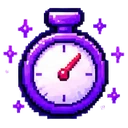
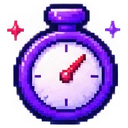
Prestiż: ikonki 8-bit z nowego arkusza + 8 nowych tytułów (Władca Fiszek, Łowca Skarbów, Jasnowidz…)
Claude-Session: https://claude.ai/code/session_01XXanGnhjjnzsxd4etEsKKt

diff --git a/cosmetics.js b/cosmetics.js
@@ -71,6 +71,10 @@ COS.push(
   { id: 't_alchemik', t: 'title', n: 'Alchemik', r: 'rare' }, { id: 't_ratownik', t: 'title', n: 'Ratownik', r: 'rare' },
   { id: 't_snajper', t: 'title', n: 'Snajper', r: 'epic' }, { id: 't_magister', t: 'title', n: 'Magister', r: 'epic' },
   { id: 't_smok', t: 'title', n: 'Pogromca Smoków', r: 'legendary' }, { id: 't_diament', t: 'title', n: 'Diamentowy umysł', r: 'legendary' },
+  { id: 't_zar', t: 'title', n: 'Żar nauki', r: 'common' }, { id: 't_sto', t: 'title', n: 'Stuprocentowy', r: 'rare' },
+  { id: 't_czas', t: 'title', n: 'Strażnik Czasu', r: 'rare' }, { id: 't_wrozbita', t: 'title', n: 'Jasnowidz', r: 'epic' },
+  { id: 't_weteran', t: 'title', n: 'Weteran', r: 'epic' }, { id: 't_aniol', t: 'title', n: 'Anioł Stróż', r: 'epic' },
+  { id: 't_skarb', t: 'title', n: 'Łowca Skarbów', r: 'legendary' }, { id: 't_krol', t: 'title', n: 'Władca Fiszek', r: 'mythic' },
   { id: 'r_potion', t: 'react', n: 'Eliksir', r: 'epic', e: '🧪' }, { id: 'r_diamond', t: 'react', n: 'Diament', r: 'legendary', e: '💎' });
 // 👾 grafiki 8-bit zamiast zwykłych emotek (assets/px8: b_* – odznaki tytułów, e_* – reakcje, efekty, aury)
 const COS_IMG = {
@@ -78,6 +82,7 @@ const COS_IMG = {
   t_pogromca: 'b_swords', t_gladiator: 'b_shield', t_nieomylny: 'b_target', t_pamiec: 'b_dna', t_niezlomny: 'b_fire', t_odkrywca: 'b_comet',
   t_prymus: 'b_scroll', t_magnes: 'b_magnet', t_gwiazda: 'b_sparkle', t_sprinter: 'b_stopwatch', t_alchemik: 'b_flasks', t_ratownik: 'b_medkit',
   t_snajper: 'b_bow', t_magister: 'b_gradcap', t_smok: 'b_dragon', t_diament: 'b_ring',
+  t_zar: 'b_fire2', t_sto: 'b_hundred', t_czas: 'b_hourglass', t_wrozbita: 'b_orb', t_weteran: 'b_swords2', t_aniol: 'b_wing2', t_skarb: 'b_chest', t_krol: 'b_crown2',
   x_hearts: 'e_heartdark', x_stars: 'e_shootstar', x_confetti: 'e_popper', x_thunder: 'e_bolt', x_rainbow: 'e_rainbow', x_nova: 'e_nova',
   r_heart: 'e_heartbeat', r_fire: 'e_fire', r_clap: 'e_clap', r_100: 'e_hundred', r_crown: 'e_crown', r_unicorn: 'e_unicorn', r_potion: 'e_potion', r_diamond: 'e_diamond',
   a_hearts: 'e_heartbeat', a_sparkle: 'e_star', a_fire: 'e_fire', a_cosmic: 'e_atom',

diff --git a/app.js b/app.js
@@ -10,7 +10,7 @@ const uid = () => Date.now().toString(36) + Math.random().toString(36).slice(2, 
 const esc = s => String(s ?? '').replace(/[&<>"']/g, c => ({ '&': '&amp;', '<': '&lt;', '>': '&gt;', '"': '&quot;', "'": '&#39;' }[c]));
 const fmt = s => esc(s).replace(/\n/g, '<br>');
 const MIN = 60e3, HOUR = 36e5, DAY = 864e5;
-const APP_VERSION = '160';   // podbijaj razem z CACHE w sw.js
+const APP_VERSION = '161';   // podbijaj razem z CACHE w sw.js
 const shuffle = a => { for (let i = a.length - 1; i > 0; i--) { const j = Math.random() * (i + 1) | 0; [a[i], a[j]] = [a[j], a[i]]; } return a; };
 const clamp = (v, a, b) => Math.max(a, Math.min(b, v));
 

diff --git a/sw.js b/sw.js
@@ -1,5 +1,5 @@
 // Offline: aplikacja działa bez internetu. Zmień numer wersji przy każdej aktualizacji plików.
-const CACHE = 'fiszki-v160';
+const CACHE = 'fiszki-v161';
 const ASSETS = ['./', 'index.html', 'styles.css', 'app.js', 'manifest.webmanifest',
   'icons/icon-192.png', 'icons/icon-512.png', 'icons/apple-touch-icon.png', 'assets/reakcja-kot.webp', 'assets/stickers/kot-zolnierz.webp', 'assets/stickers/kot-zolnierz-cut.webp'];
 
